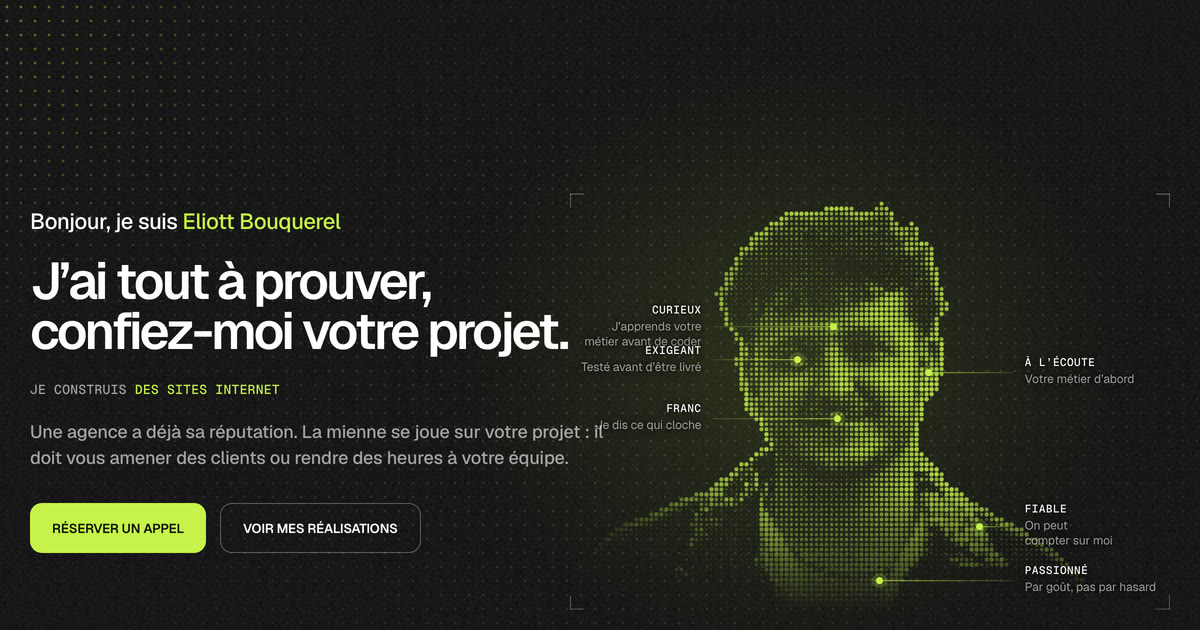
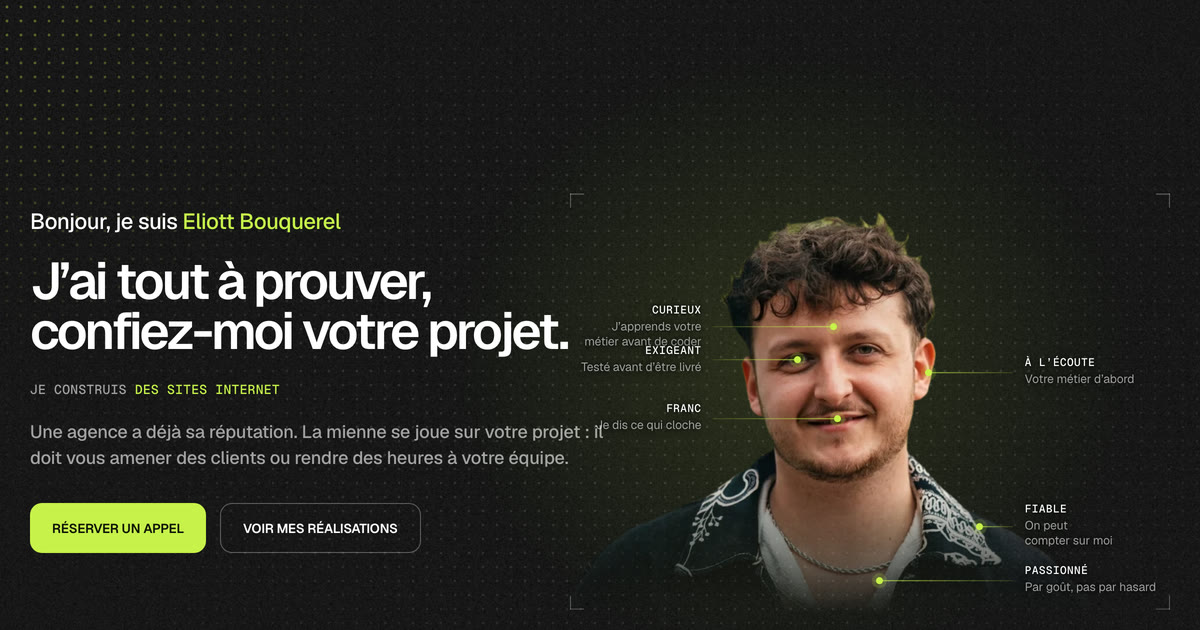
✨ Passer le portrait du héros en photo couleur

Changed region(s): [[0.5242, 0.3317, 0.8942, 0.9651]]

diff --git a/src/components/sections/hero/AmbianceHeros.tsx b/src/components/sections/hero/AmbianceHeros.tsx
@@ -38,6 +38,10 @@ export function AmbianceHeros() {
     const m = motif.current;
     const section = r?.closest("section");
     if (!r || !l || !m || !section) return;
+    // La trame du visage n'apparaît que sous la lampe : on lui donne la
+    // position de la lampe dans son propre repère.
+    const visage = section.querySelector<HTMLElement>(".hero-visage");
+    const decalage = { x: 0, y: 0 };
 
     const ordinateur = window.matchMedia("(min-width: 1200px)");
     const vivant =
@@ -52,6 +56,8 @@ export function AmbianceHeros() {
     const poser = () => {
       l.style.transform = `translate3d(${pos.x}px, ${pos.y}px, 0)`;
       m.style.transform = `translate3d(${-pos.x}px, ${-pos.y}px, 0)`;
+      visage?.style.setProperty("--lx", `${pos.x - decalage.x}px`);
+      visage?.style.setProperty("--ly", `${pos.y - decalage.y}px`);
     };
 
     const avancer = () => {
@@ -78,6 +84,11 @@ export function AmbianceHeros() {
       const b = r.getBoundingClientRect();
       cible.x = e.clientX - b.left;
       cible.y = e.clientY - b.top;
+      if (visage) {
+        const v = visage.getBoundingClientRect();
+        decalage.x = v.left - b.left;
+        decalage.y = v.top - b.top;
+      }
       if (section.dataset.pointeur !== "1") {
         // Première entrée : la lampe naît sous la souris, sans traverser l'écran.
         section.dataset.pointeur = "1";
@@ -89,6 +100,8 @@ export function AmbianceHeros() {
     };
     const quitter = () => {
       section.dataset.pointeur = "";
+      visage?.style.removeProperty("--lx");
+      visage?.style.removeProperty("--ly");
     };
     const obs = new IntersectionObserver(([entree]) => {
       visible = Boolean(entree?.isIntersecting);

diff --git a/src/components/sections/hero/PortraitCouleur.tsx b/src/components/sections/hero/PortraitCouleur.tsx
@@ -1,0 +1,46 @@
+"use client";
+
+import { useEffect, useRef } from "react";
+
+/**
+ * PORTRAIT COULEUR DU HÉROS, ORDINATEUR SEULEMENT (2026-11-24, choix
+ * d'Eliott : « oui, couleur »). La photo détourée par
+ * `scripts/detourer-portrait.mjs` est peinte dans une toile plutôt qu'en
+ * `<img>` : une toile n'est jamais candidate au LCP, qui reste le titre.
+ *
+ * Elle n'est chargée qu'au-delà de 1 200 px (au montage, ou quand la fenêtre
+ * franchit ce seuil) : le téléphone garde la trame et ne télécharge rien.
+ * Placement et fondu : `.hero-photo` dans globals.css.
+ */
+export function PortraitCouleur({ src }: { src: string }) {
+  const toile = useRef<HTMLCanvasElement>(null);
+
+  useEffect(() => {
+    const t = toile.current;
+    if (!t) return;
+    const ordinateur = window.matchMedia("(min-width: 1200px)");
+    let image: HTMLImageElement | null = null;
+    const charger = () => {
+      if (image || !ordinateur.matches) return;
+      const img = new window.Image();
+      image = img;
+      img.onload = () => {
+        const ctx = t.getContext("2d");
+        if (!ctx) return;
+        t.width = img.naturalWidth;
+        t.height = img.naturalHeight;
+        ctx.drawImage(img, 0, 0);
+        t.dataset.pret = "1";
+      };
+      img.src = src;
+    };
+    charger();
+    ordinateur.addEventListener("change", charger);
+    return () => {
+      ordinateur.removeEventListener("change", charger);
+      if (image) image.onload = null;
+    };
+  }, [src]);
+
+  return <canvas ref={toile} aria-hidden data-part="hero-photo" className="hero-photo absolute hidden desktop:block" />;
+}

diff --git a/src/app/globals.css b/src/app/globals.css
@@ -1154,6 +1154,34 @@ html[data-consent-choisi] [data-consent-attente] {
   background-repeat: no-repeat;
 }
 
+/* Portrait couleur (ordinateur) : carré, 146,3 % de la hauteur du cadre,
+   remonté de 19,4 % et décalé pour poser l'œil et l'oreille sur les points
+   des traits ; fondu vers le bas comme l'ancienne trame. La trame, elle,
+   n'apparaît plus que sous la lampe de la souris (`--lx`, `--ly`, posés par
+   AmbianceHeros) ; sans souris, elle reste invisible. */
+.hero-photo {
+  top: -19.4%;
+  left: calc(44% - 0.738 * min(66vh, 620px));
+  height: 146.3%;
+  width: auto;
+  max-width: none;
+  aspect-ratio: 1;
+  -webkit-mask-image: linear-gradient(to bottom, #000 62%, transparent 82%);
+  mask-image: linear-gradient(to bottom, #000 62%, transparent 82%);
+  opacity: 0;
+  transition: opacity 500ms cubic-bezier(0.23, 1, 0.32, 1);
+}
+.hero-photo[data-pret="1"] { opacity: 1; }
+@media (prefers-reduced-motion: reduce) {
+  .hero-photo { transition: none; }
+}
+@media (min-width: 1200px) {
+  .hero-visage {
+    -webkit-mask-image: radial-gradient(circle 150px at var(--lx, -400px) var(--ly, -400px), #000 30%, transparent 100%);
+    mask-image: radial-gradient(circle 150px at var(--lx, -400px) var(--ly, -400px), #000 30%, transparent 100%);
+  }
+}
+
 /* Traits du visage : un point volt posé sur la trame, cerclé d'un halo, et un
    trait fin qui s'éteint vers l'étiquette. */
 .hero-repere-point {

diff --git a/src/components/sections/HeroSection.tsx b/src/components/sections/HeroSection.tsx
@@ -5,6 +5,7 @@ import { lienRendezVous } from "@/content/rendez-vous";
 import { uiLabels } from "@/content/ui";
 import { AmbianceHeros } from "./hero/AmbianceHeros";
 import { JeConstruis } from "./hero/JeConstruis";
+import { PortraitCouleur } from "./hero/PortraitCouleur";
 import { VisageTrame } from "./hero/VisageTrame";
 
 /**
@@ -102,6 +103,8 @@ export function HeroSection({ hero }: { hero: HeroContent }) {
             aria-hidden
             className="pointer-events-none relative z-0 -mx-[20px] h-[clamp(240px,40svh,360px)] tablet:-mx-[30px] tablet:h-[clamp(300px,40svh,440px)] desktop:absolute desktop:right-[30px] desktop:top-1/2 desktop:mx-0 desktop:h-[min(66vh,620px)] desktop:w-[50%] desktop:-translate-y-[40%]"
           >
+            {/* Portrait couleur sur ordinateur, la trame n'apparaît que sous la souris. */}
+            <PortraitCouleur src="/images/eliott-portrait-couleur.webp" />
             <div className="hero-visage absolute inset-0">
               <VisageTrame src="/images/eliott-portrait-large.jpg" centreOrdinateur={0.44} />
             </div>

diff --git a/docs/skills-usage.md b/docs/skills-usage.md
@@ -528,3 +528,11 @@ partage régénérée (le champ et le halo y apparaissent, immobiles).
 | impeccable · hiérarchie | Six traits en deux colonnes alignées (titre et bord), chacun accroché par un point à une partie du visage ; remplace les trois repères numérotés jugés « argumentaire » |
 | emil-design-eng · origine | Le trait se trace depuis le point vers l'étiquette ; mouvement réduit : tracé immédiat |
 | taste-skill · lisibilité | Halo sombre sous les étiquettes posées sur la trame |
+
+### Portrait couleur au héros, 2026-11-24
+
+| Règle | Effet |
+|---|---|
+| impeccable · confiance | Vraie photo couleur sur ordinateur (choix d'Eliott), détourée, calée sur les six points des traits |
+| emil-design-eng · mouvement | Trame volt révélée seulement sous la souris, photo en fondu 500 ms à l'arrivée, sans fondu en mouvement réduit |
+| taste-skill · performance | Photo peinte dans une toile : le titre reste le LCP ; jamais chargée sur téléphone |
